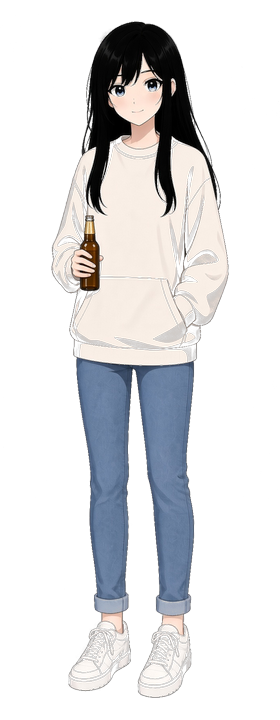
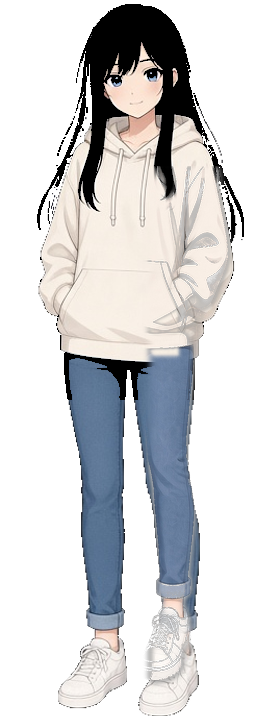
v1.4.42 Face holds match locked A
Paste-lock idle Face A head, hair, and pullover onto the
beer/coffee/cigarette grips so Date Face is the same person.
HOLD_POSE_V hold8.

Changed region(s): [[0.1143, 0.0, 0.8857, 1.0]]

diff --git a/src/ui/app.ts b/src/ui/app.ts
@@ -287,7 +287,7 @@ function playerAvatarSrc(): string {
   return getAFace() === "camera" ? "avatars/player-face.png?v=face7" : "avatars/player.png?v=a1";
 }
 
-const HOLD_POSE_V = "hold7";
+const HOLD_POSE_V = "hold8";
 
 function playerFullSrc(prop?: ShopPropId | null): string {
   const face = getAFace() === "camera";

diff --git a/public/sw.js b/public/sw.js
@@ -1,5 +1,5 @@
 /* AA Mahjong asset cache — Cache API, not localStorage */
-const CACHE = "aa-mahjong-assets-1.4.41";
+const CACHE = "aa-mahjong-assets-1.4.42";
 const PRECACHE = [
   "avatars/left.png",
   "avatars/opposite.png",

diff --git a/src/main.ts b/src/main.ts
@@ -15,7 +15,7 @@ function registerAssetCache(): void {
 }
 
 function warmImages(): void {
-  const hold = "hold7";
+  const hold = "hold8";
   const urls = [
     "avatars/player.png?v=a1",
     "avatars/player-face.png?v=face7",

diff --git a/src/version.ts b/src/version.ts
@@ -1,2 +1,2 @@
 /** Single app version — keep in sync with package.json, VERSION, public/sw.js CACHE. */
-export const APP_VERSION = "1.4.41";
+export const APP_VERSION = "1.4.42";
